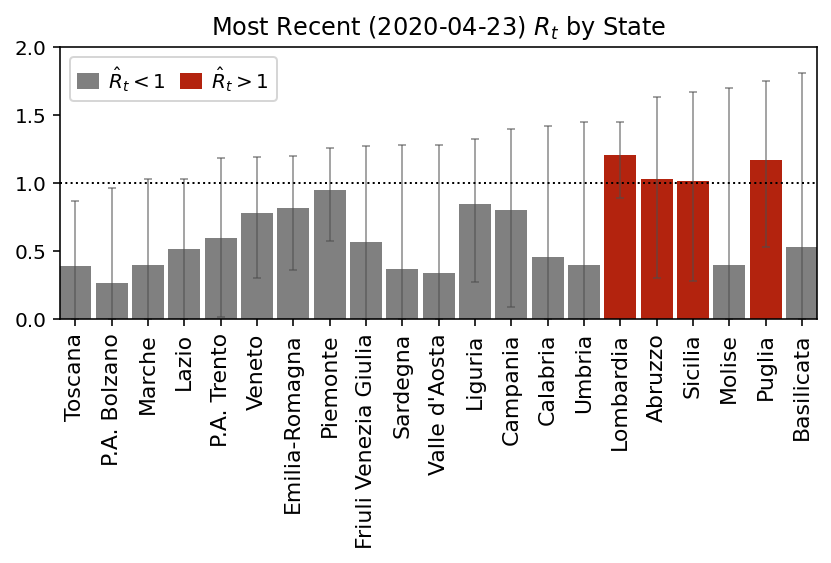
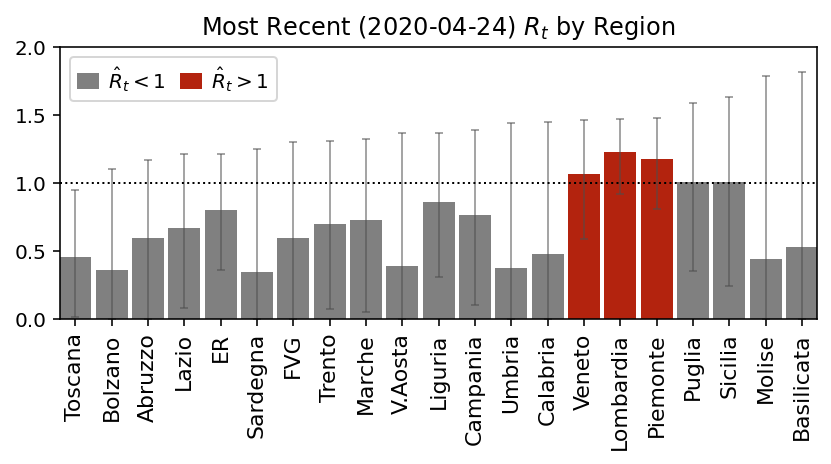
2020-04-24

diff --git a/RealtimeR0_Italy/RealtimeR0_Italy.py b/RealtimeR0_Italy/RealtimeR0_Italy.py
@@ -435,9 +435,9 @@ ERROR_BAR_COLOR = [.3,.3,.3]
 filtered = final_results.index.get_level_values(0)
 mr = final_results.loc[filtered].groupby(level=0)[['ML', 'High_90', 'Low_90']].last()
 
-def plot_standings(mr, figsize=None, title='Most Recent ({}) $R_t$ by State'.format(str(index.get_level_values('data')[-2]+pd.Timedelta(days=1))[:10])):
+def plot_standings(mr, figsize=None, title='Most Recent ({}) $R_t$ by Region'.format(str(index.get_level_values('data')[-2]+pd.Timedelta(days=1))[:10])):
     if not figsize:
-        figsize = ((15.9/50)*len(mr)+.1,2.5)
+        figsize = (14,8)
         
     fig, ax = plt.subplots(figsize=figsize)
 
